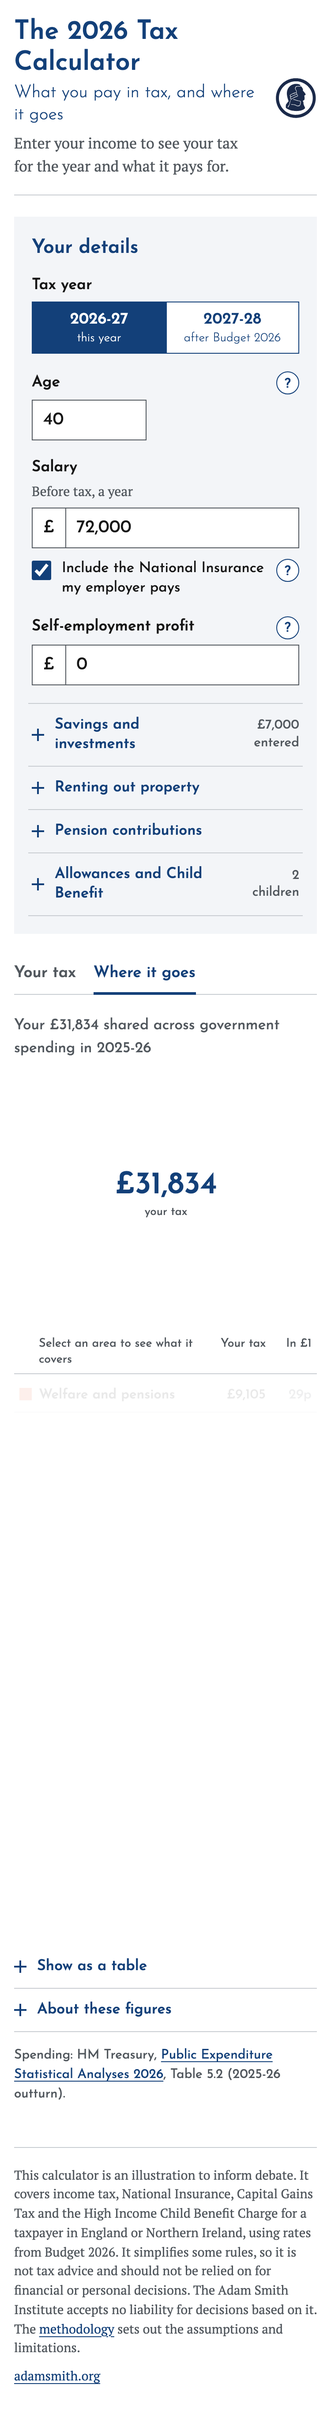
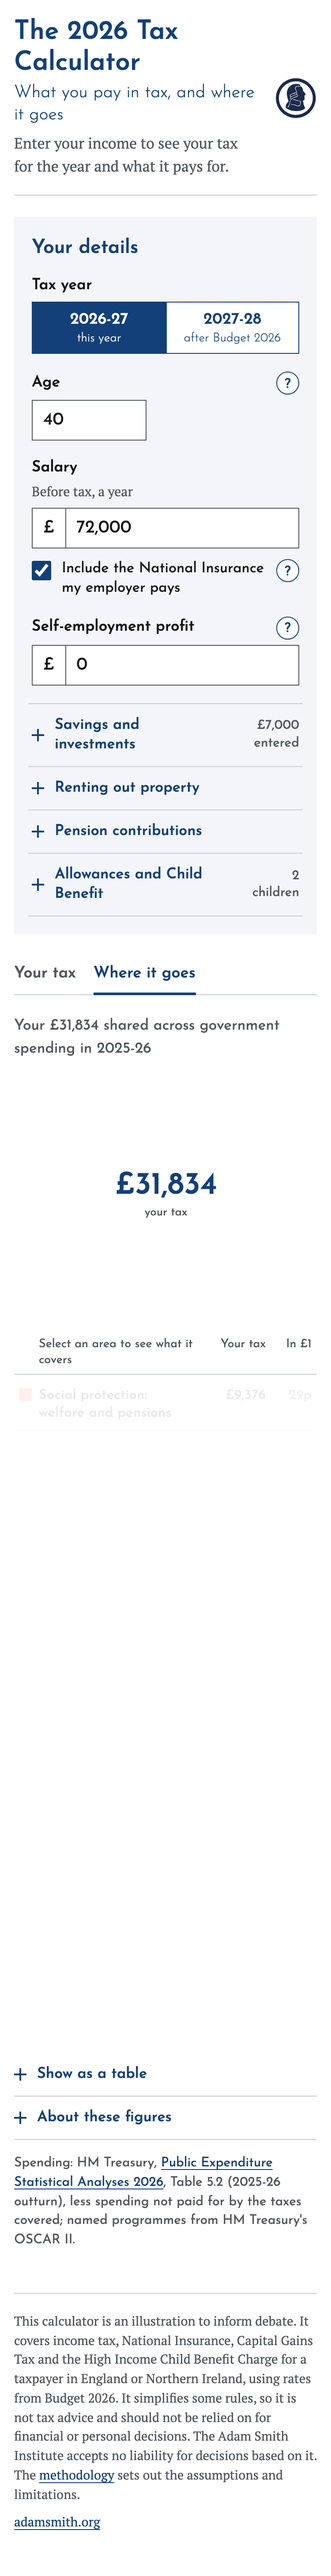
Show named programmes and exclusions in the calculator
Inside each part, named programmes are listed under "Including" with their
total and your share; the table version lists them too. "About these
figures" explains the starting total, lists each exclusion with its amount
and reason (from the data file), and says where the named programmes come
from. Shares use TES less exclusions. New browser test for HS2 and the
exclusion list; 27 browser tests pass.

diff --git a/index.html b/index.html
@@ -3,13 +3,13 @@
 <head>
 <meta charset="utf-8">
 <meta name="viewport" content="width=device-width, initial-scale=1">
-<meta name="asi-version" content="b74c5c7d9a">
+<meta name="asi-version" content="34a5278b97">
 <title>The 2026 Tax Calculator | Adam Smith Institute</title>
 <meta name="description" content="Work out your income tax, National Insurance and other direct taxes for 2026-27 and 2027-28, and see what they pay for.">
 <link rel="preload" href="assets/fonts/JosefinSans.ttf" as="font" type="font/ttf" crossorigin>
 <link rel="preload" href="assets/fonts/PTSerif-Regular.ttf" as="font" type="font/ttf" crossorigin>
-<link rel="stylesheet" href="src/styles.css?v=b74c5c7d9a">
-<script type="module" src="src/app.js?v=b74c5c7d9a" onerror="document.getElementById('load-error').hidden = false"></script>
+<link rel="stylesheet" href="src/styles.css?v=34a5278b97">
+<script type="module" src="src/app.js?v=34a5278b97" onerror="document.getElementById('load-error').hidden = false"></script>
 </head>
 <body>
 <div class="page">
@@ -236,13 +236,16 @@
     <details class="detail">
       <summary><span class="pm" aria-hidden="true"></span><span>About these figures</span></summary>
       <div class="about">
-        <p>Taxes are not earmarked for particular services. The government pools what it raises and decides spending separately. In <span data-spend-year>2025-26</span> it also borrowed to cover part of what it spent, so taxes paid for less than all of it. This chart shares your tax in the same proportions as the Treasury's total spending.</p>
-        <p>The figures are the Treasury's <strong>total expenditure on services</strong> for <span data-spend-year>2025-26</span>: <span id="tes">£1,227.6 billion</span> spent on public services, benefits and debt interest. <strong>Outturn</strong> means what was actually spent, as opposed to plans. The total leaves out <span id="adjustments">£132.5 billion</span> of accounting adjustments, mostly depreciation and VAT that public bodies pay and get back, which take it to <span id="tme">£1,360.1 billion</span>. HMRC's Annual Tax Summaries use the same basis.</p>
+        <p>Taxes are not earmarked for particular services. The government pools what it raises and decides spending separately. In <span data-spend-year>2025-26</span> it also borrowed to cover part of what it spent, so taxes paid for less than all of it. This chart shares your tax in the same proportions as the spending your taxes help pay for.</p>
+        <p>The starting point is the Treasury's <strong>total expenditure on services</strong> for <span data-spend-year>2025-26</span>: <span id="tes">£1,227.6 billion</span> spent on public services, benefits and debt interest. <strong>Outturn</strong> means what was actually spent, as opposed to plans. That total already leaves out <span id="adjustments">£132.5 billion</span> of accounting adjustments, mostly depreciation and VAT that public bodies pay and get back, which take it to <span id="tme">£1,360.1 billion</span>. Student loans are not counted as spending in it.</p>
+        <p>The calculator then leaves out <span id="excluded">£35.4 billion</span> that the taxes it covers do not pay for, and shares your tax across the remaining <span id="base">£1,192.2 billion</span>:</p>
+        <ul class="exclusions" id="exclusions"></ul>
+        <p id="programmes-about">Named programmes such as HS2 come from HM Treasury's <a id="programmes-link" href="https://www.gov.uk/government/publications/oscar-ii-publishing-data-from-the-database-june-2026" target="_blank" rel="noopener">OSCAR II</a> database (provisional figures for <span data-spend-year>2025-26</span>). They show what each spent on staff, goods and services, investment, grants and benefits, leaving out depreciation, provisions and loans. They are part of the line they sit under, not extra to it. Hinkley Point C does not appear: it is privately financed and paid for through electricity bills.</p>
         <p>Spending is grouped by purpose, using the UN's Classification of the Functions of Government (COFOG), whichever department or council spends it. The <a href="https://github.com/adam-smith-institute/tax-calculator/blob/main/METHODOLOGY.md" target="_blank" rel="noopener">methodology</a> explains each category.</p>
       </div>
     </details>
 
-    <p class="source">Spending: HM Treasury, <a id="source-link" href="https://www.gov.uk/government/statistics/public-expenditure-statistical-analyses-2026" target="_blank" rel="noopener">Public Expenditure Statistical Analyses 2026</a>, Table 5.2 (<span id="source-year">2025-26</span> outturn).</p>
+    <p class="source">Spending: HM Treasury, <a id="source-link" href="https://www.gov.uk/government/statistics/public-expenditure-statistical-analyses-2026" target="_blank" rel="noopener">Public Expenditure Statistical Analyses 2026</a>, Table 5.2 (<span id="source-year">2025-26</span> outturn), less spending not paid for by the taxes covered<span id="programmes-source">; named programmes from HM Treasury's OSCAR II</span>.</p>
     <p class="small" id="source-note" hidden>Showing the figures bundled with this page, because the latest data file could not be loaded.</p>
   </div>
 </section>

diff --git a/tests/e2e/browser.test.js b/tests/e2e/browser.test.js
@@ -88,7 +88,7 @@ for (const [name, form, inputs] of CASES) {
   });
 }
 
-test('pie chart shares the headline total over TES, with every category in the legend', async () => {
+test('pie chart shares the headline total over TES less exclusions, with every category in the legend', async () => {
   const { page } = await open();
   await page.click('#tab-spend');
   const total = money(await page.textContent('#total'));
@@ -96,7 +96,7 @@ test('pie chart shares the headline total over TES, with every category in the l
   assert.equal(amounts.length, spending.categories.length);
   assert.equal(await page.$$eval('#pie .slice', (els) => els.length), spending.categories.length);
   const first = spending.categories[0];
-  assert.equal(amounts[0], `£${Math.round(total * first.amount / spending.meta.tes).toLocaleString('en-GB')}`);
+  assert.equal(amounts[0], `£${Math.round(total * first.amount / spending.meta.base).toLocaleString('en-GB')}`);
   assert.equal(await page.textContent('#pie .legend-item >> nth=0 >> .legend-name'), first.name);
   const sum = amounts.reduce((s, f) => s + money(f), 0);
   assert.ok(Math.abs(sum - total) <= spending.categories.length, `categories add to £${sum}, total £${total}`);
@@ -336,7 +336,7 @@ test('share image: white card, top three shares as bars in the pie chart colours
   assert.deepEqual(r.names, spending.categories.slice(0, 3).map((c) => c.name));
   for (const b of r.bars) assert.equal(b.got, b.want);
   assert.ok(r.bars[0].w > r.bars[1].w && r.bars[1].w > r.bars[2].w, 'bars ranked by size');
-  assert.deepEqual(r.percents, spending.categories.slice(0, 3).map((c) => `${(c.amount / spending.meta.tes * 100).toFixed(1)}% of spending`));
+  assert.deepEqual(r.percents, spending.categories.slice(0, 3).map((c) => `${(c.amount / spending.meta.base * 100).toFixed(1)}% of spending`));
   assert.ok(r.contentBottom < r.footerTop - 40, `content ends at ${r.contentBottom}, footer at ${r.footerTop}`);
   // The mark sits bottom right, beside the footer, at least 8% of the width, clear of the content
   assert.ok(r.mark.x > 1080 / 2 && r.mark.y > r.footerTop - r.mark.size, 'mark in the bottom-right footer');
@@ -361,5 +361,25 @@ test('parts are shades of their category colour, largest in the full colour, lig
     .reduce((s, c, k) => s + c * [0.2126, 0.7152, 0.0722][k], 0);
   for (let j = 1; j < fills.length; j++) assert.ok(lum(fills[j]) > lum(fills[j - 1]), `part ${j} lighter than part ${j - 1}`);
   assert.equal(swatches.length, fills.length);
+  await page.close();
+});
+
+test('named programmes (HS2, Sizewell C) appear inside their lines with total and your share', async () => {
+  const { page } = await open();
+  await page.fill('#empInc', '45,000');
+  await page.click('#tab-spend');
+  const transport = spending.categories.findIndex((c) => c.id === 'transport');
+  await page.click(`#pie .legend-item >> nth=${transport}`);
+  const items = await page.$$eval('.notable-item', (els) => els.map((e) => [e.querySelector('.notable-name').textContent, e.querySelector('.notable-total').textContent, e.querySelector('.notable-yours').textContent]));
+  const hs2 = spending.categories[transport].children.find((c) => c.id === 'railways').notable.find((n) => n.id === 'hs2');
+  const row = items.find(([name]) => name === 'HS2');
+  assert.ok(row, 'HS2 listed');
+  assert.equal(row[1], `£${(hs2.amount / 1000).toFixed(1)} billion`);
+  assert.equal(row[2], `£${Math.round(9080 * hs2.amount / spending.meta.base)}`);
+  // The exclusions are listed with their reasons under "About these figures"
+  await page.click('#panel-spend details.detail:nth-of-type(2) > summary');
+  const excl = await page.$$eval('#exclusions li', (els) => els.map((e) => e.textContent));
+  assert.equal(excl.length, spending.meta.exclusions.length);
+  assert.match(excl.join(' '), /BBC domestic services/);
   await page.close();
 });

diff --git a/src/ui/pie.js b/src/ui/pie.js
@@ -9,8 +9,8 @@
 // seamless); going back runs the same in reverse. Users who ask for reduced motion get the end
 // state at once.
 
-import { allocate } from './spending-data.js?v=b74c5c7d9a';
-import { gbp, penceInPound, billions } from './format.js?v=b74c5c7d9a';
+import { allocate } from './spending-data.js?v=34a5278b97';
+import { gbp, penceInPound, billions } from './format.js?v=34a5278b97';
 
 const SVG = 'http://www.w3.org/2000/svg';
 const SIZE = 320;
@@ -234,7 +234,8 @@ export function buildPie({ root, tableBody, data }) {
         el('span', { class: 'legend-pence', text: penceInPound(k.share) }),
         k.description || k.amount < 0
           ? el('span', { class: 'legend-desc', text: [k.description, k.amount < 0 ? 'A net receipt, so not shown in the chart.' : ''].filter(Boolean).join(' ') })
-          : null);
+          : null,
+        k.notable?.length ? notableList(k) : null);
       row.addEventListener('mouseenter', () => highlight(k.i));
       row.addEventListener('mouseleave', () => highlight(null));
       return el('li', {}, row);
@@ -245,12 +246,30 @@ export function buildPie({ root, tableBody, data }) {
     return title;
   }
 
+  // Named programmes within a part (HS2 within Railway, and so on), from OSCAR II. They are
+  // part of the line above them, not additional to it.
+  function notableList(k) {
+    const items = k.notable.map((n) => {
+      const yoursEl = el('span', { class: 'notable-yours' });
+      figures.push({ amount: yoursEl, key: `${k.key}/${n.id}` });
+      return el('li', { class: 'notable-item' },
+        el('span', { class: 'notable-name', text: n.name }),
+        el('span', { class: 'notable-total', text: billions(n.amount) }),
+        yoursEl,
+        n.note ? el('span', { class: 'notable-note', text: n.note }) : null);
+    });
+    return el('div', { class: 'notable' }, el('span', { class: 'notable-head', text: 'Including' }), el('ul', {}, ...items));
+  }
+
   // Update the £ figures in place as the inputs change (no re-render, no animation)
   function refreshFigures() {
     const yours = new Map();
     for (const c of allocate(total, data)) {
       yours.set(c.id, c);
-      for (const k of c.children) yours.set(`${c.id}/${k.id}`, k);
+      for (const k of c.children) {
+        yours.set(`${c.id}/${k.id}`, k);
+        for (const n of k.notable) yours.set(`${c.id}/${k.id}/${n.id}`, n);
+      }
     }
     for (const f of figures) {
       const x = yours.get(f.key);
@@ -302,6 +321,10 @@ export function buildPie({ root, tableBody, data }) {
       for (const k of c.children) {
         rows.push(el('tr', { class: 'sub-row' }, el('th', { scope: 'row', text: k.name }), el('td', { class: 'num', text: gbp(k.yours) }),
           el('td', { class: 'num', text: penceInPound(k.share) }), el('td', { class: 'num', text: billions(k.amount) })));
+        for (const n of k.notable) {
+          rows.push(el('tr', { class: 'notable-row' }, el('th', { scope: 'row', text: `including ${n.name}` }), el('td', { class: 'num', text: gbp(n.yours) }),
+            el('td', { class: 'num', text: penceInPound(n.share) }), el('td', { class: 'num', text: billions(n.amount) })));
+        }
       }
     }
     tableBody.replaceChildren(...rows);

diff --git a/src/app.js b/src/app.js
@@ -1,13 +1,13 @@
 // ASI tax calculator: reads the form, runs the engine for the chosen tax year (and the other
 // year, for the comparison line), and renders the results and the spending split.
 
-import { computeTax } from './engine/computeTax.js?v=b74c5c7d9a';
-import { loadSpending, allocate } from './ui/spending-data.js?v=b74c5c7d9a';
-import { buildPie } from './ui/pie.js?v=b74c5c7d9a';
-import { renderSummary, renderDetail } from './ui/breakdown.js?v=b74c5c7d9a';
-import { shareContent, downloadShareCard } from './ui/share.js?v=b74c5c7d9a';
-import { startAutoResize } from './ui/embed.js?v=b74c5c7d9a';
-import { gbp, percent, parseMoney, billions } from './ui/format.js?v=b74c5c7d9a';
+import { computeTax } from './engine/computeTax.js?v=34a5278b97';
+import { loadSpending, allocate } from './ui/spending-data.js?v=34a5278b97';
+import { buildPie } from './ui/pie.js?v=34a5278b97';
+import { renderSummary, renderDetail } from './ui/breakdown.js?v=34a5278b97';
+import { shareContent, downloadShareCard } from './ui/share.js?v=34a5278b97';
+import { startAutoResize } from './ui/embed.js?v=34a5278b97';
+import { gbp, percent, parseMoney, billions } from './ui/format.js?v=34a5278b97';
 
 const YEARS = ['2026-27', '2027-28'];
 const DEFAULT_YEAR = '2026-27';
@@ -210,6 +210,17 @@ function showSpendingSource(data, live) {
   $('tes').textContent = billions(m.tes);
   $('adjustments').textContent = billions(m.accountingAdjustments);
   $('tme').textContent = billions(m.tme);
+  $('excluded').textContent = billions(m.excluded ?? 0);
+  $('base').textContent = billions(m.base ?? m.tes);
+  $('exclusions').replaceChildren(...(m.exclusions || []).map((e) => {
+    const li = document.createElement('li');
+    const name = document.createElement('strong');
+    name.textContent = `${e.name}, ${billions(e.amount)}: `;
+    li.append(name, e.reason);
+    return li;
+  }));
+  if (m.programmes) $('programmes-link').href = m.programmes.url;
+  else { $('programmes-about').hidden = true; $('programmes-source').hidden = true; }
   if (!live) $('source-note').hidden = false;
 }
 

diff --git a/src/styles.css b/src/styles.css
@@ -227,8 +227,21 @@ button.legend-item:hover .legend-name { text-decoration: underline; text-underli
 .legend-pence { color: var(--grey); }
 .legend-desc { grid-column: 2 / -1; margin-top: 4px; font: 400 14px/1.45 var(--serif); color: var(--grey); }
 
+.notable { grid-column: 2 / -1; margin-top: 8px; }
+.notable-head { display: block; font: 600 13.5px/1.3 var(--sans); color: var(--grey); margin-bottom: 2px; }
+.notable ul { list-style: none; margin: 0; padding: 0; }
+.notable-item { display: grid; grid-template-columns: minmax(0, 1fr) auto 84px; column-gap: 10px; align-items: baseline; padding: 4px 0; border-top: 1px dotted var(--hairline); font: 400 15px/1.35 var(--sans); }
+.notable-total { color: var(--grey); white-space: nowrap; font-variant-numeric: tabular-nums; }
+.notable-yours { text-align: right; white-space: nowrap; font-variant-numeric: tabular-nums; }
+.notable-note { grid-column: 1 / -1; font: 400 13.5px/1.4 var(--serif); color: var(--grey); }
+.spend-table .notable-row th { padding-left: 32px; font-style: italic; color: var(--grey); }
+.spend-table .notable-row td { color: var(--grey); }
+@media (max-width: 560px) { .notable-item { grid-template-columns: minmax(0, 1fr) auto 70px; font-size: 14px; } }
 .about { font-size: 15.5px; }
 .about p { margin: 0 0 10px; }
+.exclusions { margin: 0 0 12px; padding-left: 20px; }
+.exclusions li { margin: 0 0 6px; }
+.exclusions strong { font-family: var(--sans); font-weight: 600; }
 .source { margin: 16px 0 0; font-size: 15px; line-height: 1.45; color: var(--grey); }
 
 @media (max-width: 560px) {

diff --git a/src/ui/spending-data.js b/src/ui/spending-data.js
@@ -1,7 +1,7 @@
 // Loads data/spending.json (same origin, refreshed by the weekly pipeline). If that fails,
 // falls back to the snapshot bundled with the code at the last build.
 
-import fallback from '../spending/fallback.js?v=b74c5c7d9a';
+import fallback from '../spending/fallback.js?v=34a5278b97';
 
 export async function loadSpending(url = 'data/spending.json') {
   try {
@@ -16,15 +16,17 @@ export async function loadSpending(url = 'data/spending.json') {
   }
 }
 
-// The user's tax shared across categories in proportion to spending (over TES)
+// The user's tax shared across categories in proportion to spending. The base is the
+// Treasury's total expenditure on services less the spending the taxonomy excludes as not
+// paid for by the taxes the calculator models (older data files have no base: use TES).
 export function allocate(totalTax, data) {
-  const tes = data.meta.tes;
+  const base = data.meta.base ?? data.meta.tes;
+  const share = (amount) => ({ share: amount / base, yours: totalTax * (amount / base) });
   return data.categories.map((c) => ({
     ...c,
-    share: c.amount / tes,
-    yours: totalTax * (c.amount / tes),
+    ...share(c.amount),
     children: c.children
       .filter((ch) => ch.amount !== 0)
-      .map((ch) => ({ ...ch, share: ch.amount / tes, yours: totalTax * (ch.amount / tes) })),
+      .map((ch) => ({ ...ch, ...share(ch.amount), notable: (ch.notable || []).map((n) => ({ ...n, ...share(n.amount) })) })),
   }));
 }

diff --git a/src/ui/breakdown.js b/src/ui/breakdown.js
@@ -1,6 +1,6 @@
 // The per-tax summary (lines that add up to the headline) and the detailed working table.
 
-import { gbp, gbpPence, rate } from './format.js?v=b74c5c7d9a';
+import { gbp, gbpPence, rate } from './format.js?v=34a5278b97';
 
 const COMPONENT = {
   nonSavings: 'Earnings and other income',

diff --git a/src/ui/share.js b/src/ui/share.js
@@ -9,7 +9,7 @@
 // chart in the pie chart's colours with each one's share of all spending. The categories,
 // colours and shares come from the data; none is hardcoded.
 
-import { gbp } from './format.js?v=b74c5c7d9a';
+import { gbp } from './format.js?v=34a5278b97';
 
 const W = 1080;
 const H = 1350;

diff --git a/DESIGN-EXTENSION.md b/DESIGN-EXTENSION.md
@@ -124,7 +124,12 @@ Used for **Your tax** and **Where it goes**. A primary button at the end of the 
   focus moves to the name. Parts are listed with their descriptions running full width
   beneath. A net negative part (EU transactions) is listed but left out of the donut, with a
   note saying so. "All spending" returns focus to the category's button.
-- A "Show as a table" disclosure gives every figure as a data table.
+- **Named programmes** sit under the part they belong to, after its description, headed
+  "Including" in small grey Josefin 600. Each is a row of name, total spending (grey, for example
+  "£7.1 billion") and the user's share in the "Your tax" column, separated by dotted hairlines,
+  so they read as part of the line above them, not extra to it.
+- A "Show as a table" disclosure gives every figure as a data table, with named programmes as
+  italic "including …" rows.
 
 ### Motion
 
